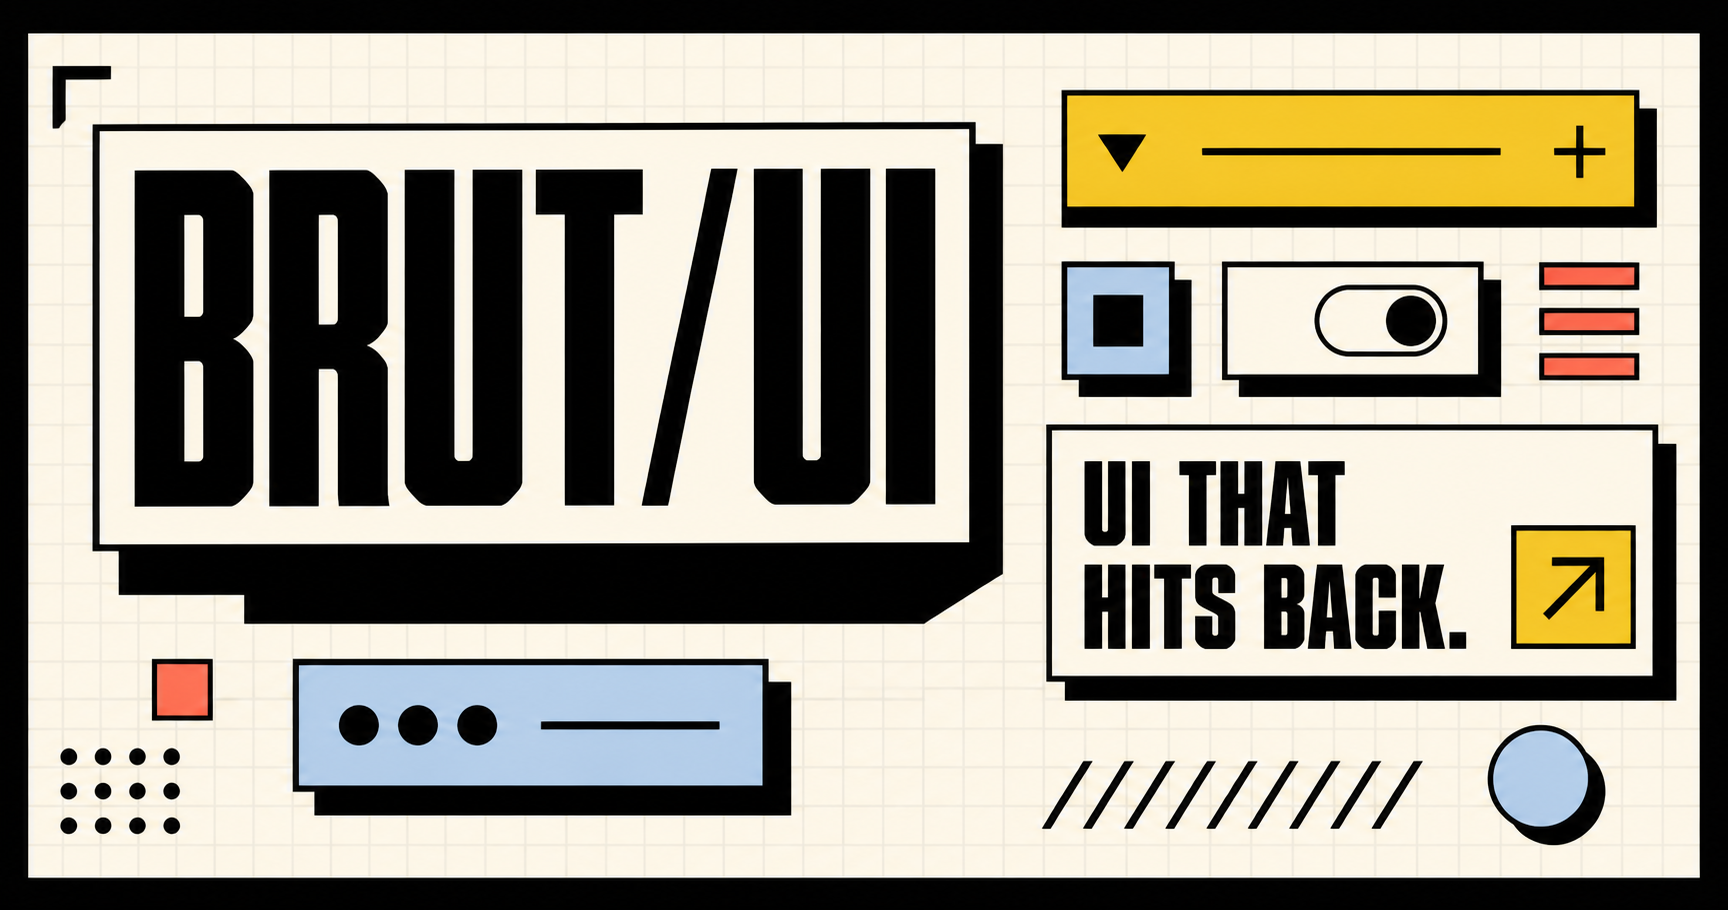
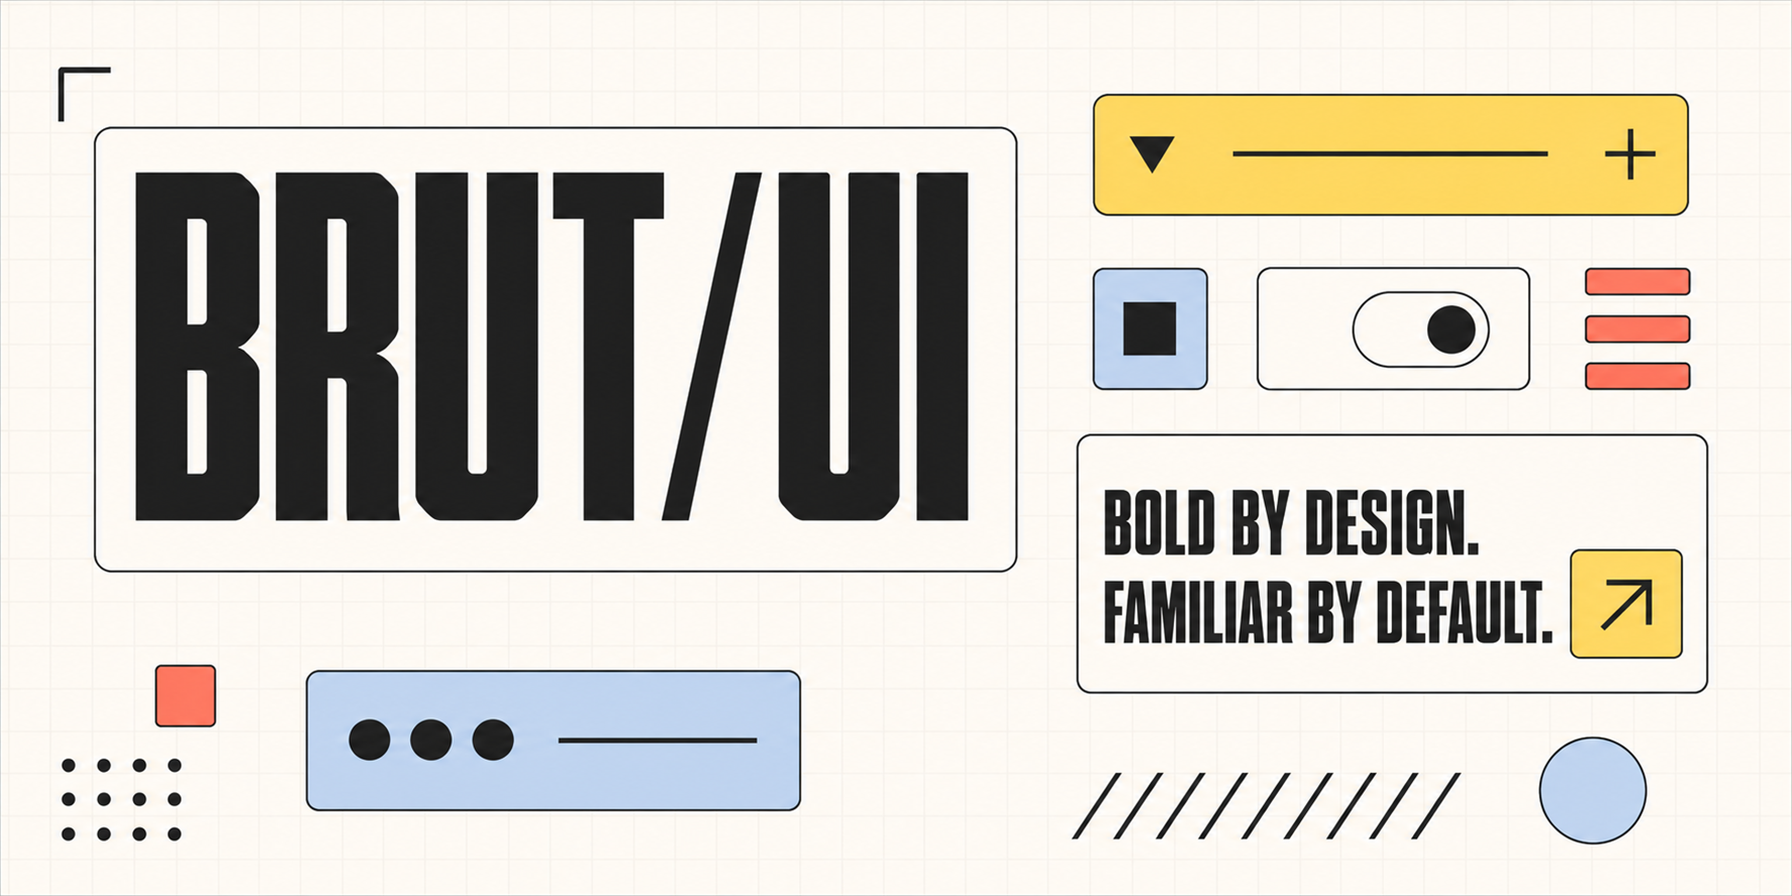
feat: update landing page header text and add new tagline

diff --git a/components/brutalist-landing.tsx b/components/brutalist-landing.tsx
@@ -167,9 +167,12 @@ export function BrutalistLanding() {
               <Sparkles data-icon="inline-start" /> Three flavours. Built for production.
             </Badge>
             <h1 className="max-w-5xl text-[clamp(4rem,11vw,9.5rem)] leading-[0.78] font-black tracking-[-0.085em] uppercase">
-              UI that
+              Bold by
               <span className="mt-2 block w-fit border-[var(--brut-border)] border-border bg-primary px-3 pb-3 text-primary-foreground shadow-[var(--brut-shadow-x)_var(--brut-shadow-y)_0_var(--brut-shadow-color)] -rotate-1">
-                hits back.
+                design.
+              </span>
+              <span className="mt-3 block text-[0.55em] leading-[0.9] tracking-[-0.06em]">
+                Familiar by default.
               </span>
             </h1>
             <p className="mt-10 max-w-2xl text-lg leading-relaxed font-semibold sm:text-xl">
